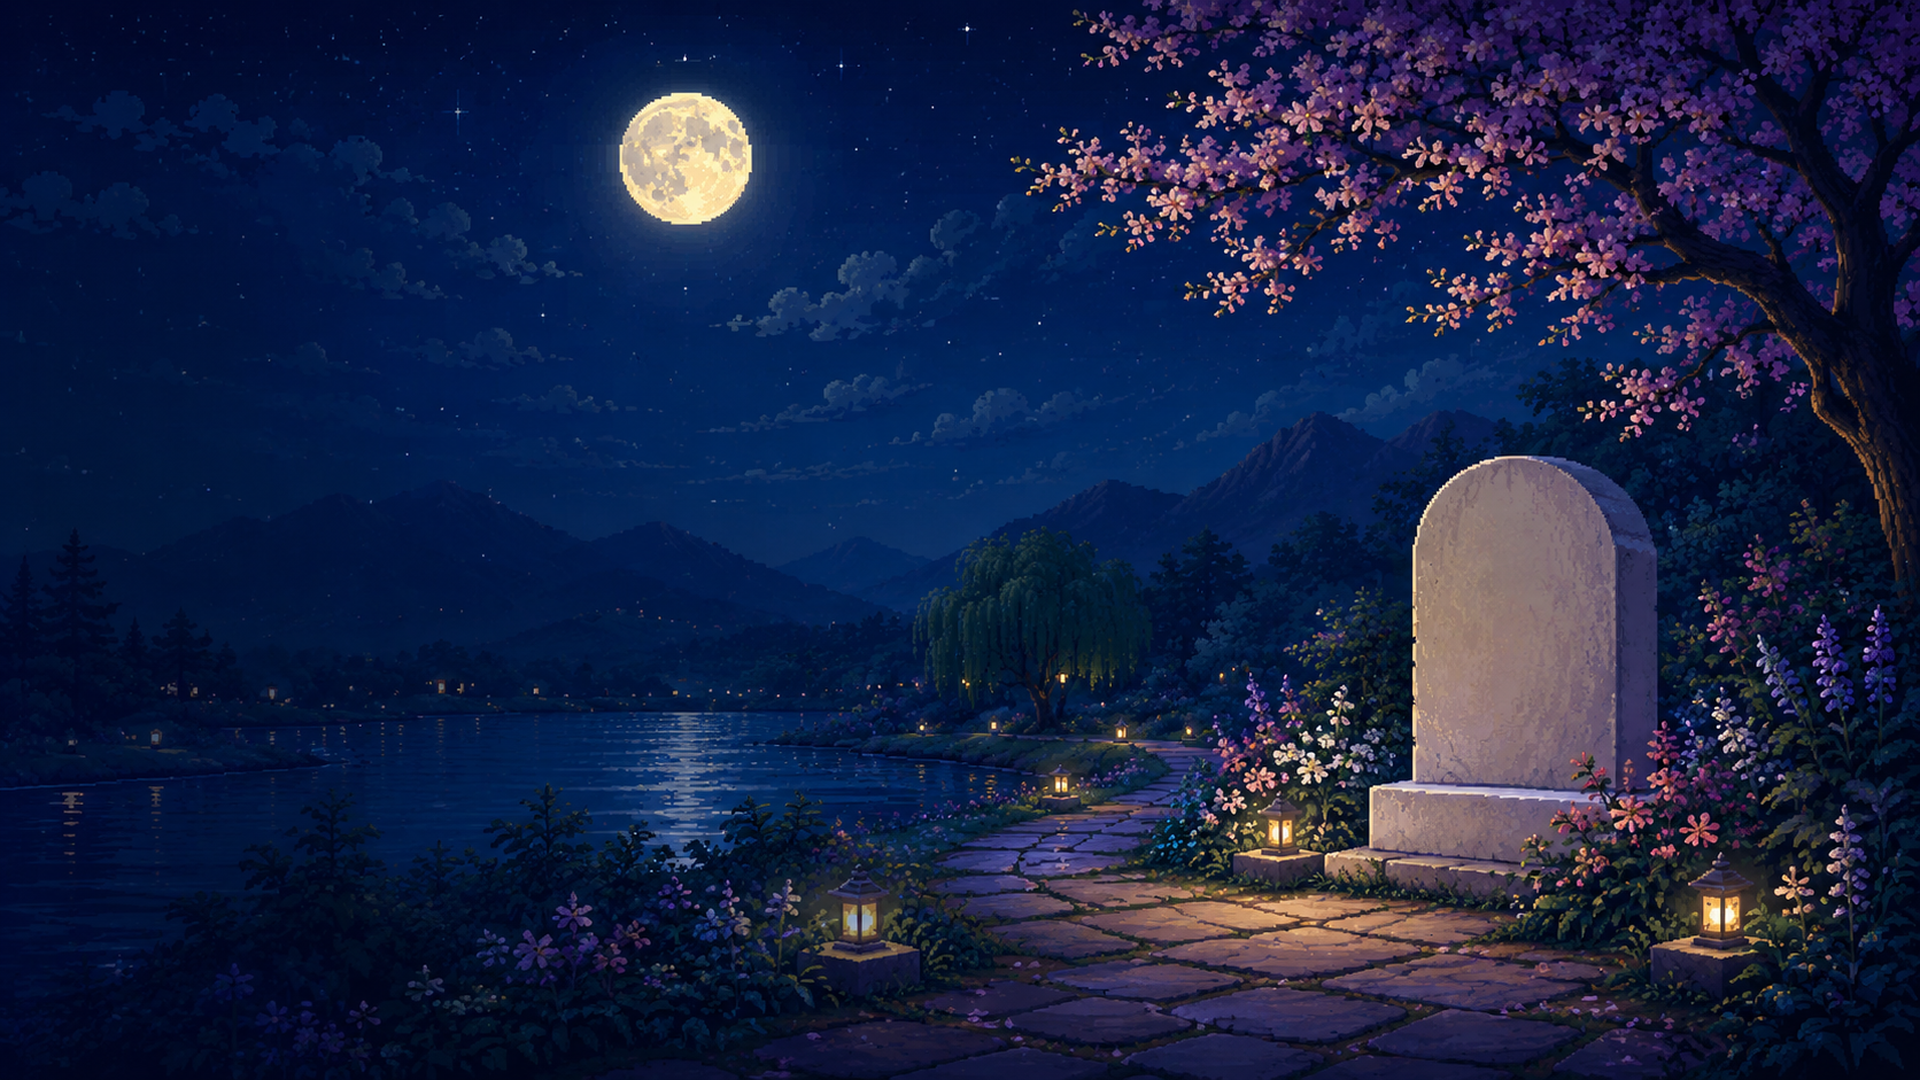
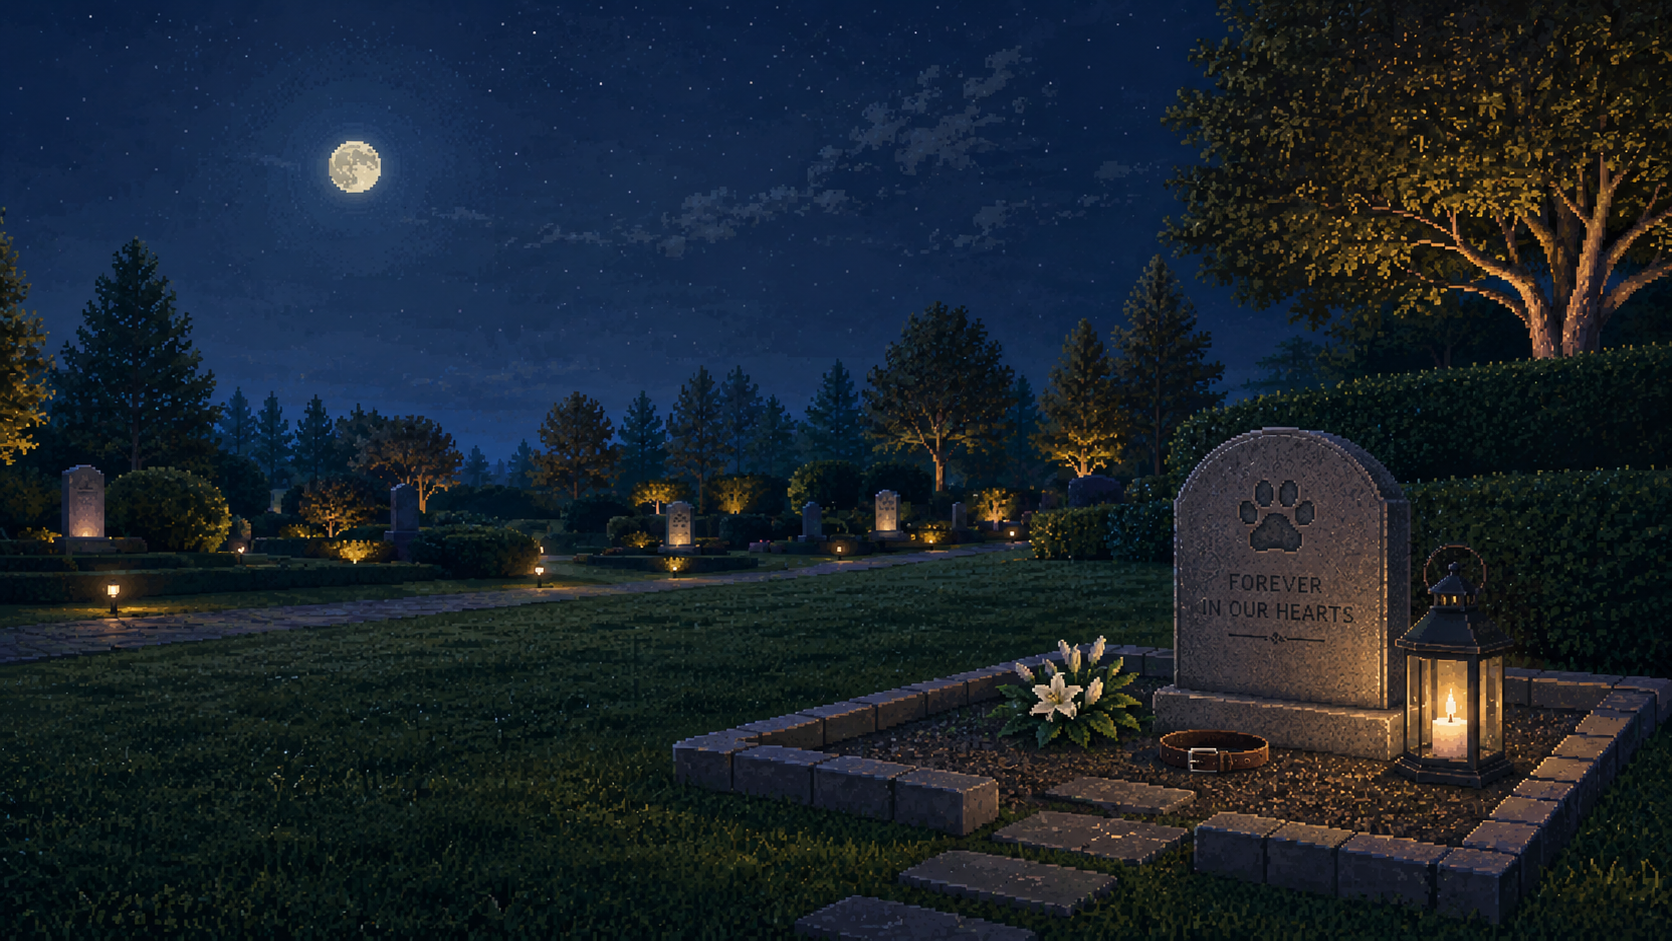
Add files via upload

diff --git a/index.html b/index.html
@@ -6,101 +6,129 @@
   <title>宠物纪念园</title>
   <style>
     * { box-sizing: border-box; }
-    html, body { margin: 0; width: 100%; min-height: 100%; background: #050914; overflow: hidden; }
-    body { font-family: "Microsoft YaHei", "PingFang SC", system-ui, sans-serif; }
+    html, body {
+      margin: 0;
+      width: 100%;
+      min-height: 100%;
+      background: #07111f;
+      overflow: hidden;
+      font-family: "Microsoft YaHei", "PingFang SC", sans-serif;
+    }
     .page {
       position: relative;
       width: 100vw;
       height: 100vh;
-      overflow: hidden;
-      background: url("hero.png?v=redesign-2") center center / cover no-repeat;
+      background: url("hero.png") center center / cover no-repeat;
     }
-    .overlay {
+    .page::after {
+      content: "";
       position: absolute;
       inset: 0;
-      width: 100%;
-      height: 100%;
-      object-fit: cover;
+      background: url("ui-overlay.png") center center / cover no-repeat;
       pointer-events: none;
-      user-select: none;
-      image-rendering: auto;
     }
-    .hotspot {
+    .hit {
       position: absolute;
       z-index: 5;
       border: 0;
+      padding: 0;
       background: transparent;
       cursor: pointer;
     }
-    .enter { left: 6.85%; top: 66.65%; width: 16.7%; height: 7.85%; }
-    .create { left: 26.05%; top: 66.65%; width: 16.7%; height: 7.85%; }
-    .nav-home { left: 42.2%; top: 6.1%; width: 4.0%; height: 5%; }
-    .nav-garden { left: 48.9%; top: 6.1%; width: 5.3%; height: 5%; }
-    .nav-create { left: 57.0%; top: 6.1%; width: 7.4%; height: 5%; }
-    .language { left: 85.4%; top: 5.1%; width: 11.1%; height: 6.2%; }
+    .brand { left: 2%; top: 2%; width: 14.5%; height: 7.5%; }
+    .nav-home { left: 42.8%; top: 3%; width: 4.6%; height: 6.5%; }
+    .nav-garden { left: 49.4%; top: 3%; width: 5.2%; height: 6.5%; }
+    .nav-create { left: 57.2%; top: 3%; width: 7%; height: 6.5%; }
+    .lang {
+      position: absolute;
+      z-index: 6;
+      left: 85.8%; top: 2.5%; width: 10.2%; height: 5.8%;
+      opacity: 0.01;
+      cursor: pointer;
+    }
+    .enter { left: 5%; top: 64.5%; width: 18.7%; height: 8.3%; }
+    .create { left: 26.3%; top: 64.5%; width: 16.8%; height: 8.3%; }
     .toast {
       position: fixed;
       left: 50%;
-      bottom: 34px;
-      z-index: 20;
-      padding: 14px 22px;
-      color: #f6e7c6;
-      background: rgba(7, 15, 30, 0.94);
-      border: 2px solid rgba(236, 214, 174, 0.5);
-      transform: translateX(-50%) translateY(20px);
+      bottom: 28px;
+      transform: translateX(-50%) translateY(16px);
+      padding: 12px 18px;
+      border: 1px solid rgba(246,212,142,0.35);
+      background: rgba(9,16,31,0.95);
+      color: #f6eedf;
       opacity: 0;
       pointer-events: none;
-      transition: 0.24s ease;
-      font-weight: 700;
+      transition: 0.22s ease;
+      z-index: 30;
       letter-spacing: 1px;
     }
     .toast.show { opacity: 1; transform: translateX(-50%) translateY(0); }
     @media (max-width: 900px) {
       body { overflow: auto; }
-      .page { min-height: 100vh; background-position: center center; }
+      .page { min-height: 100vh; }
+      .brand { left: 2%; top: 1.6%; width: 24%; height: 7%; }
+      .lang { left: 78%; top: 2%; width: 18%; height: 6%; }
+      .nav-home { left: 38%; top: 2.8%; width: 7%; height: 6%; }
+      .nav-garden { left: 47%; top: 2.8%; width: 8%; height: 6%; }
+      .nav-create { left: 58%; top: 2.8%; width: 12%; height: 6%; }
+      .enter { left: 5%; top: 67%; width: 27%; height: 7.5%; }
+      .create { left: 35%; top: 67%; width: 25%; height: 7.5%; }
     }
   </style>
 </head>
 <body>
   <main class="page">
-    <img class="overlay" src="ui-overlay.png?v=redesign-2" alt="宠物纪念园首页" />
-    <button class="hotspot enter" type="button" id="enterGarden" aria-label="进入纪念园"></button>
-    <button class="hotspot create" type="button" id="createMemorial" aria-label="开始创建"></button>
-    <button class="hotspot nav-home" type="button" aria-label="首页"></button>
-    <button class="hotspot nav-garden" type="button" id="navGarden" aria-label="纪念园"></button>
-    <button class="hotspot nav-create" type="button" id="navCreate" aria-label="创建纪念"></button>
-    <button class="hotspot language" type="button" id="languageButton" aria-label="语言"></button>
+    <button class="hit brand" type="button" onclick="location.href='index.html'" aria-label="首页"></button>
+    <button class="hit nav-home" type="button" onclick="location.href='index.html'" aria-label="首页"></button>
+    <button class="hit nav-garden" type="button" id="navGarden" aria-label="纪念园"></button>
+    <button class="hit nav-create" type="button" id="navCreate" aria-label="创建纪念"></button>
+    <button class="hit enter" type="button" id="enterGarden" aria-label="进入纪念园"></button>
+    <button class="hit create" type="button" id="createMemorial" aria-label="开始创建"></button>
+
+    <select class="lang" id="languageSelect" aria-label="语言选择">
+      <option value="zh-CN">简体中文</option>
+      <option value="zh-TW">繁體中文</option>
+      <option value="en">English</option>
+      <option value="ja">日本語</option>
+    </select>
   </main>
   <div class="toast" id="toast"></div>
   <script>
-    const toast = document.getElementById("toast");
+    const toast = document.getElementById('toast');
     function showToast(message) {
       toast.textContent = message;
-      toast.classList.add("show");
-      window.clearTimeout(showToast.timer);
-      showToast.timer = window.setTimeout(() => toast.classList.remove("show"), 1800);
+      toast.classList.add('show');
+      clearTimeout(showToast.timer);
+      showToast.timer = setTimeout(() => toast.classList.remove('show'), 1800);
     }
     function hasSavedMemorial() {
       try {
-        const draft = JSON.parse(localStorage.getItem("petMemorialDraft"));
-        return Boolean(draft && draft.petName && draft.epitaph);
-      } catch (error) {
+        const draft = JSON.parse(localStorage.getItem('petMemorialDraft'));
+        return Boolean(draft && draft.petName);
+      } catch (e) {
         return false;
       }
     }
     function openGarden() {
       if (hasSavedMemorial()) {
-        window.location.href = "cemetery.html";
-        return;
+        window.location.href = 'cemetery.html';
+      } else {
+        showToast('还没有创建纪念，先去创建页面。');
+        setTimeout(() => { window.location.href = 'create.html'; }, 700);
       }
-      showToast("还没有创建纪念，先进入创建页面。");
-      setTimeout(() => window.location.href = "create.html", 700);
     }
-    document.getElementById("enterGarden").addEventListener("click", openGarden);
-    document.getElementById("navGarden").addEventListener("click", openGarden);
-    document.getElementById("createMemorial").addEventListener("click", () => window.location.href = "create.html");
-    document.getElementById("navCreate").addEventListener("click", () => window.location.href = "create.html");
-    document.getElementById("languageButton").addEventListener("click", () => showToast("语言切换后面单独接"));
+    document.getElementById('enterGarden').addEventListener('click', openGarden);
+    document.getElementById('navGarden').addEventListener('click', openGarden);
+    document.getElementById('createMemorial').addEventListener('click', () => { window.location.href = 'create.html'; });
+    document.getElementById('navCreate').addEventListener('click', () => { window.location.href = 'create.html'; });
+    const select = document.getElementById('languageSelect');
+    const savedLanguage = localStorage.getItem('petMemorialLanguage');
+    if (savedLanguage) select.value = savedLanguage;
+    select.addEventListener('change', function() {
+      localStorage.setItem('petMemorialLanguage', this.value);
+      showToast('语言已保存');
+    });
   </script>
 </body>
 </html>